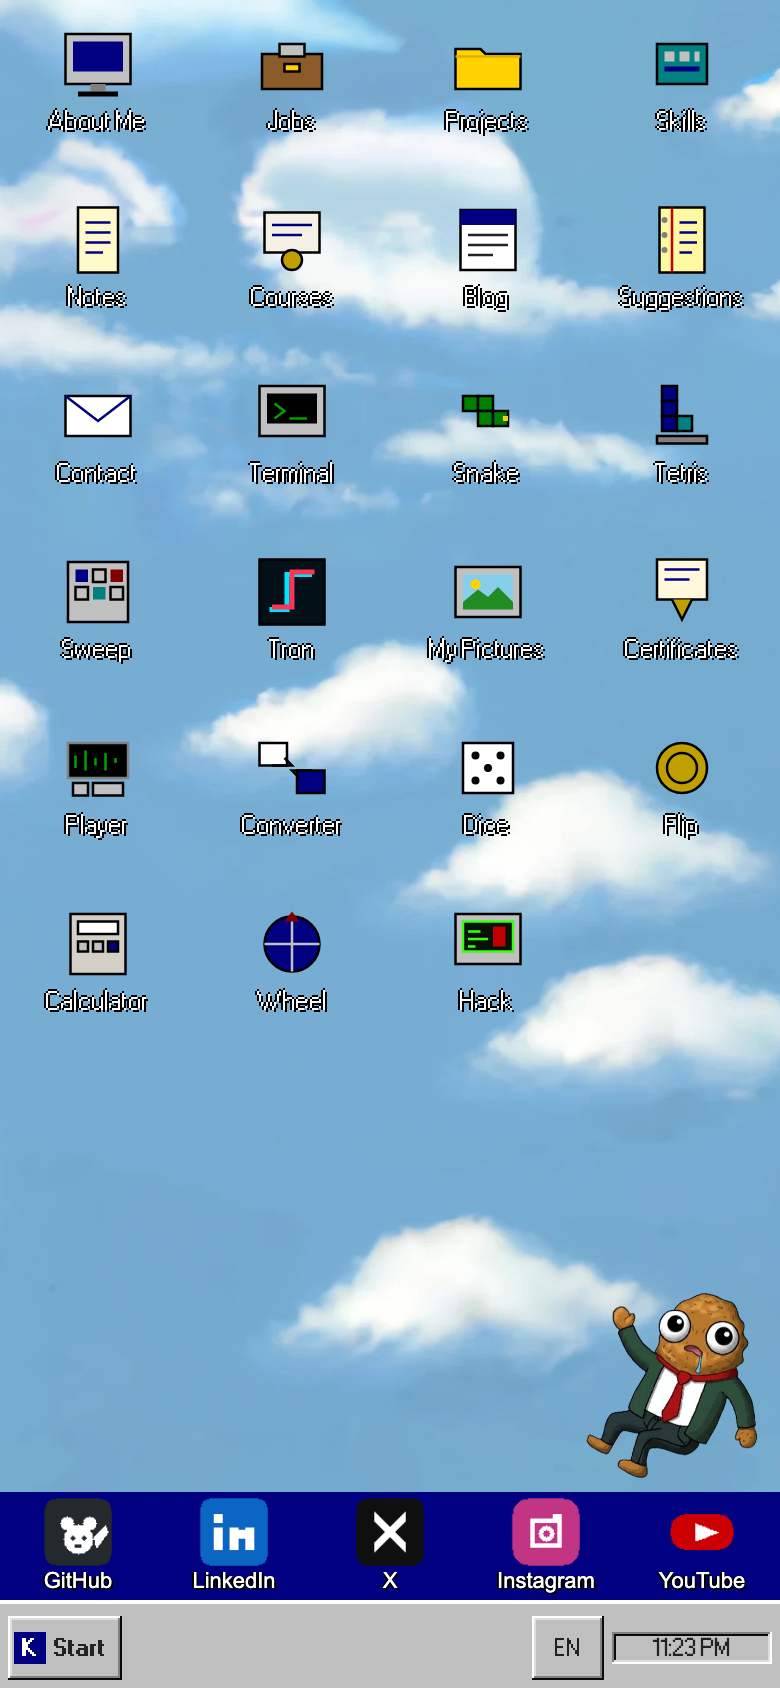
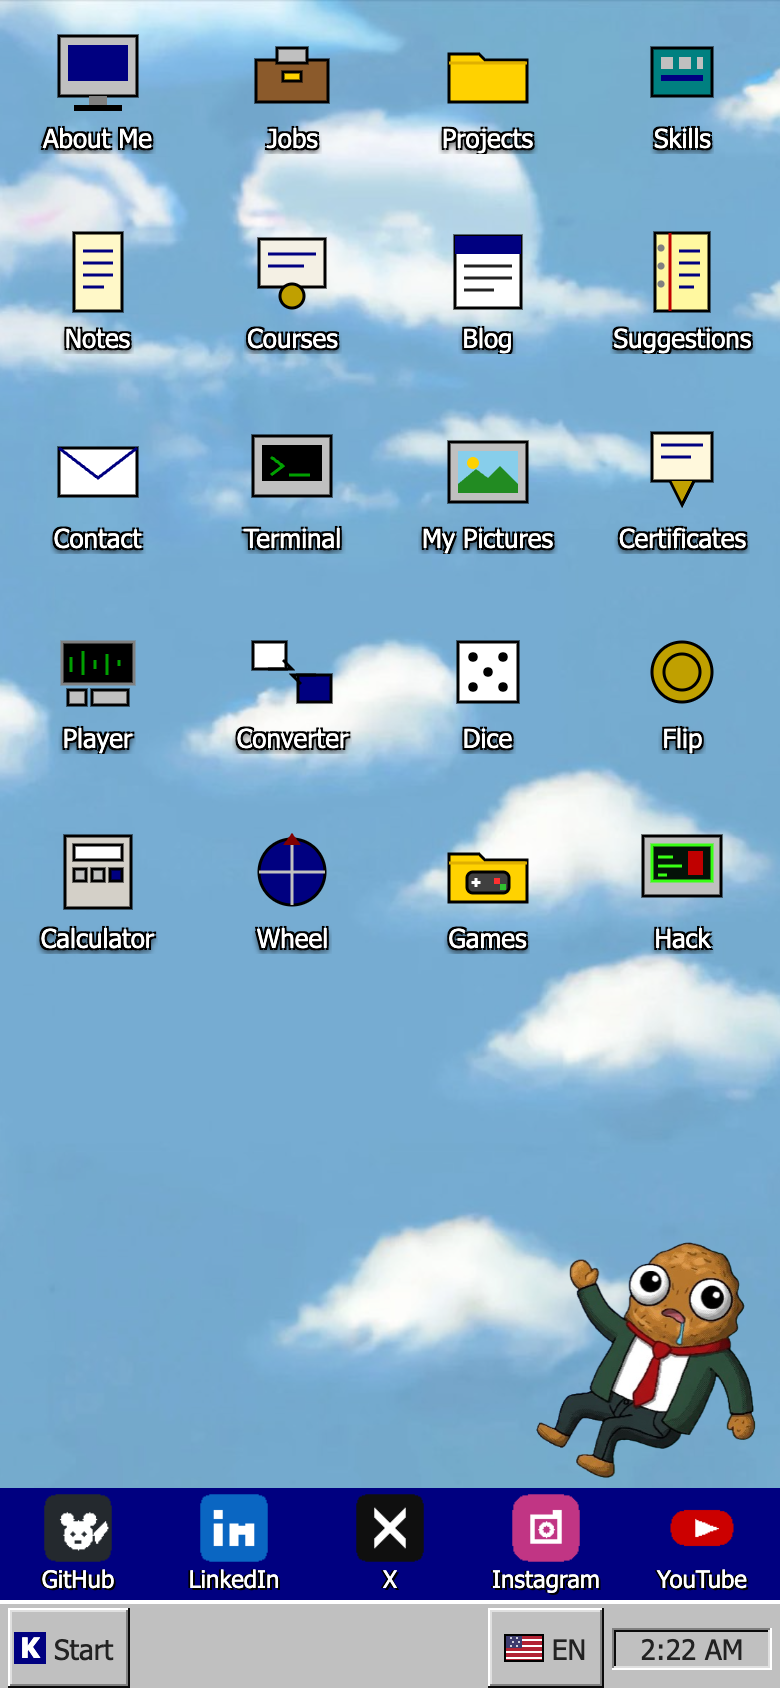
docs: refresh the screenshots and document the stack and how the site is built; fit the games folder and close the nugget balloon on phones
Claude-Session: https://claude.ai/code/session_01SjmkVk8AbaXSFogXksmtBv

diff --git a/site/src/desktop/buddy.ts b/site/src/desktop/buddy.ts
@@ -12,6 +12,8 @@ export interface Clippy {
   labels(): void;
 }
 
+const PHONE_BALLOON_MS = 9000;
+
 let scareNow: ((text?: string) => void) | null = null;
 let speakNow: ((text: string) => void) | null = null;
 let calmNow: (() => void) | null = null;
@@ -114,10 +116,20 @@ export function mountClippy(desktop: HTMLElement): Clippy {
     moveTo(spot.left, spot.top);
   }
 
-  function talk(text: string): void {
+  let fadeTimer = 0;
+
+  // On a phone the balloon would sit over the icons. It closes by itself after a few seconds,
+  // and a tap on the picture brings it back. A scare stays until the visitor closes it.
+  function talk(text: string, keep = false): void {
     lastRaw = text;
     say.textContent = t(text);
     balloon.hidden = false;
+    window.clearTimeout(fadeTimer);
+    if (phoneLayout() && !keep) {
+      fadeTimer = window.setTimeout(() => {
+        balloon.hidden = true;
+      }, PHONE_BALLOON_MS);
+    }
     pic.classList.add("talk");
     window.clearTimeout(talkTimer);
     talkTimer = window.setTimeout(() => pic.classList.remove("talk"), 1400);
@@ -205,7 +217,7 @@ export function mountClippy(desktop: HTMLElement): Clippy {
   function scare(text?: string): void {
     if (root.hidden) return;
     root.classList.add("is-scared");
-    talk(text ?? NUGGET_SCARE);
+    talk(text ?? NUGGET_SCARE, true);
   }
 
   function calm(): void {

diff --git a/site/src/desktop/buddy.test.ts b/site/src/desktop/buddy.test.ts
@@ -1,10 +1,31 @@
 // @vitest-environment happy-dom
-import { afterEach, describe, expect, it } from "vitest";
+import { afterEach, describe, expect, it, vi } from "vitest";
 import { mountClippy } from "./buddy";
 
 afterEach(() => {
   document.body.replaceChildren();
   sessionStorage.clear();
+});
+
+describe("nugget on a phone", () => {
+  it("closes its balloon after a few seconds so it does not sit on the icons, but keeps a scare open", () => {
+    vi.useFakeTimers();
+    const original = window.matchMedia;
+    window.matchMedia = ((query: string) => ({ matches: query.includes("max-width: 700px"), media: query, addEventListener() {}, removeEventListener() {} })) as unknown as typeof window.matchMedia;
+    const desktop = document.createElement("div");
+    desktop.id = "desktop";
+    document.body.append(desktop);
+    const nugget = mountClippy(desktop);
+    const balloon = document.querySelector<HTMLElement>("#clippy .balloon");
+    expect(balloon?.hidden).toBe(false);
+    vi.advanceTimersByTime(9100);
+    expect(balloon?.hidden).toBe(true);
+    nugget.scare("Hey!");
+    vi.advanceTimersByTime(20000);
+    expect(balloon?.hidden).toBe(false);
+    window.matchMedia = original;
+    vi.useRealTimers();
+  });
 });
 
 describe("nugget", () => {

diff --git a/site/src/desktop/desktop.ts b/site/src/desktop/desktop.ts
@@ -167,7 +167,7 @@ const SIZES: Record<string, [number, number]> = {
   "/tetris": [480, 700],
   "/tron": [1000, 780],
   "/legal": [560, 520],
-  "/games": [520, 260],
+  "/games": [520, 190],
   "/accessories": [520, 380],
   "/": [780, 720],
   "/jobs": [720, 640],

diff --git a/README.md b/README.md
@@ -24,19 +24,27 @@ There is one admin, username `goben`, with a password and an authenticator code.
 
 ### Desktop
 
-![Desktop on the Sky wallpaper, with no login icon](docs/screenshots/desktop.png)
+![About Me on the Sky wallpaper, with the nugget welcoming the visitor](docs/screenshots/desktop.png)
 
 ### Phone
 
-![The same desktop on a phone](docs/screenshots/phone.png)
+![The same desktop on a phone: twenty icons, Games and Hack last](docs/screenshots/phone.png)
 
 ### Suggestions
 
-![Suggestions window, with an empty pad](docs/screenshots/suggestions.png)
+![The comment box, with an empty pad](docs/screenshots/suggestions.png)
 
 ### Player
 
-![Webdeck Player in a desktop window](docs/screenshots/player.png)
+![Webdeck Player, Silver theme, in a desktop window](docs/screenshots/player.png)
+
+### Games
+
+![The Games folder](docs/screenshots/games.png)
+
+### Tron
+
+![Tron: the light cycle against two enemies on a 64 by 48 grid](docs/screenshots/tron.png)
 
 ### Sweep
 
@@ -49,6 +57,52 @@ Other shots can go in `docs/screenshots/`. Add the file and one line in this sec
 Portfolio for Goben Diego Constantino Aguirre (PocketNugget). It runs on Cloudflare Workers. The public pages are English, Spanish, German, and French.
 
 The page is a Windows 98 style desktop. Icons and the Start menu open the same pages. The Terminal window still runs the real commands. Snake, Tetris, and Tron are their own windows, with a public best score. Content lives in `site/src/catalog.ts` and `site/content/notes/`.
+
+## Tech stack and how it was built
+
+**Stack**
+
+| Layer | What | Why |
+|---|---|---|
+| Client | TypeScript 7, Vite 8, no UI framework | The whole desktop is DOM built by hand. About 300 kB of JS, 100 kB gzipped, one CSS file |
+| Look | 98.css 0.1.21 plus `styles.css` | Windows 98 window chrome from 98.css. The pixel face (Pixelated MS Sans Serif) is served from this site. Tahoma carries the reading text and the controls |
+| Server | One Cloudflare Worker (`site/src/worker.ts`) | Sets the security headers, serves `security.txt` and `build.json`, answers `/api/*`, and returns `index.html` for document routes |
+| Data | Cloudflare D1 (SQLite) | Blog posts, suggestions, game score names, session hashes, the encrypted TOTP secret, recovery-code hashes, login-failure times |
+| Tests | Vitest 4 with happy-dom | 164 tests in 29 files, covering the API, markup, i18n, the desktop, the games, and the blog |
+| Tooling | Wrangler 4, `scripts/check.sh` | One command typechecks, tests, builds, and greps the output for what the site does not ship |
+
+The only runtime dependency is `98.css`. TypeScript, Vite, Vitest, Wrangler, and happy-dom are build and test tools.
+
+**How it fits together**
+
+1. `site/src/catalog.ts` holds the record: jobs, projects, the hero numbers, the profiles. `render.ts` turns it into the pages, and the same text feeds the terminal commands, the Facts window, the nugget, the printed CV, and the page metadata.
+2. `site/src/desktop/desktop.ts` is the desktop: the app list, icon grid, windows (drag, resize, minimize, maximize), taskbar, Start menu, wallpaper, and the phone layout where a window fills the screen. Each app is a `mount...` function that returns `{ pause, resume, destroy }`.
+3. Every text is a tuple in `i18n.ts` and `i18n-extra.ts`: English, Spanish, German, and French. A test fails when a new line is missing a language, and one more forbids long dashes, `ß`, and a banned percentage.
+4. The Worker serves static files from `dist/` and runs first, so it can add headers. Routes that are pages return the same `index.html`, and the client picks the window from the URL.
+5. The blog, comments, scores, and login are small JSON endpoints in `api.ts`. The editor is behind `/login`, a password plus a TOTP code. See "Login and the blog".
+
+**The games**
+
+- Snake and Tetris are DOM grids driven by pure state functions in `games.ts`, so the tests step them without a browser.
+- Tron (`cycle.ts`, drawn by `cyclepaint.ts`) runs on a 64 by 48 grid with two enemies. One hunts you by aiming ahead of your bike. The other plays for open space. A crashed enemy loses its light trail. Clear five grids to win. The drawing is a canvas: glow lines for trails, a rotated light cycle for each bike, a synth backdrop with scan lines.
+- Sweep grows tighter after each clear and keeps the score.
+- Each game shows the public top scores inside its Play and Exit panel, with a name box when a round ends. Scores are capped per game on the server.
+
+**Blog**
+
+Posts are Markdown, rendered by `markup.ts` into a small whitelist of tags. It supports headings, bold, italic, links, numbered and bullet lists, quotes, rules, fenced code, and images from this site's own paths. `assertSafeHtml` re-checks the result on the server before a post is saved and in the browser before it is shown. The editor has a formatting toolbar and a live preview. The Blog icon wears a red bubble while a post from the last four months exists (`blog.ts`).
+
+**Safari**
+
+The page was tested in real WebKit through Playwright (iPhone 13, iPad Pro 11, and a desktop window) with no page errors. The things Safari needs are in place: `svh` heights with a plain fallback, `-webkit-user-select`, `-webkit-touch-callout` and tap-highlight resets, inputs at 16 px so iOS does not zoom, safe-area insets, and a canvas for Tron instead of three thousand DOM cells. The viewport key `interactive-widget` is ignored by Safari and only logs a console warning. `site/scripts/ui-audit.mjs` opens every window at ten sizes in Chromium, WebKit, and Firefox and fails on windows outside the desk, sideways overflow, clipped title bars, small tap targets, and axe WCAG 2.2 AA violations. Playwright is not a dependency of the site. See that file for the command.
+
+**Performance**
+
+The wallpaper is preloaded, window images load lazily, and the photo and icons are sized for their use. Lighthouse 12 on the home page: mobile performance 86, desktop 99, with accessibility, best practices, and SEO at 100.
+
+**What it does not do**
+
+No framework, no analytics, no third-party script, and no visitor addresses stored. The only cookie is the editor session, and only after login. Nothing here claims a skill the CV does not.
 
 ## Run
 
@@ -84,17 +138,17 @@ To change a page, edit `site/src/catalog.ts`. The desktop apps are the list at t
 
 Each of these is a normal window. Open it from the icon or from Start. The terminal names are in parentheses.
 
-- Player (`player`). Webdeck Player v1.0.2, MIT, by Chris, hosted on this site under `site/public/vendor/webdeck-player/`. Opening the window loads Permaculture, by MTHRBORD, in YouTube's own player. The list also has Magic Ways, by Tatsuro Yamashita, a mix that starts on that video, Floral Shoppe, by Macintosh Plus, and a mix that starts on that track. This site does not host those files. Square-wave tones are gone from this window. The legal page says what is embedded and what is not.
+- Player (`player`). Webdeck Player v1.0.2, MIT, by Chris, hosted on this site under `site/public/vendor/webdeck-player/`. The window opens on Floral Radio in the Silver theme, played in YouTube's own player. The list also has Floral Shoppe, by Macintosh Plus, Magic Ways, by Tatsuro Yamashita, a mix that starts on that video, and Permaculture, by MTHRBORD. This site does not host those files. Square-wave tones are gone from this window. The legal page says what is embedded and what is not.
 - My Pictures (`pictures`) and Certificates (`awards`). Thumbnails, then a larger view with previous and next. The files live in `site/public/media/`. The titles and captions are `site/src/desktop/media.ts`. The public site cannot read a folder on your computer, so copy new photos into `public/media` and add a line to that file. The first set was copied from the local Desktop folder of photos and certificate scans.
 - Converter (`encode`). Base64, hex, and URL encode and decode, text to binary, MD5, SHA-1, and SHA-256, plus KB, MB, and GB using 1024, not 1000. One MB is 1048576 bytes. It runs in the page. Nothing is uploaded.
 - Sweep (`sweep`). It starts as a 9 by 9 grid with 10 mines. A clear opens a tighter grid and keeps the score. Click opens a cell. Right-click, or the Flag button, marks one. The first open cell is never a mine. Again starts over. A name can be saved on the public score list.
 - Dice (`dice`). A die with 4, 6, 8, 10, 12, or 20 sides. Six is the default.
 - Flip (`flip`). Heads or tails, with a short flip.
 - Calculator (`math`). Left to right, the way the Windows 98 calculator did it. It does not use `eval`.
-- Wheel (`wheel`). One name on each line, then a spin. The winner is written under the wheel.
+- Wheel (`wheel`). One name on each line, then a spin. The winner is written under the wheel and taken off the list, so the next spin starts without them.
 - Facts (`facts`). Short lines from the same record as the catalog, plus buttons that open the other tools.
-- Hack (`hack`). The window talks like a loud drop. The button throws an aggressive payload at the colors and labels on this page. Reset or Close puts the desktop back.
-- Nugget (`buddy`). A floating assistant, not a window. Tips come from the same fact list. Close the balloon and the picture stays. Start has Show Nugget and Hide Nugget for this tab. The picture is `site/public/buddy/nugget.png`. Replace that file to change the character.
+- Hack (`hack`). The window talks like a loud drop. A warning for people with photosensitive epilepsy sits above the button. The button throws an aggressive payload at the colors and labels on this page, and the nugget reacts. Reset or Close puts the desktop back.
+- Nugget (`buddy`). A floating guide, not a window. It welcomes the visitor, says something on each page, and Next gives more facts from the same list. On a phone the balloon closes by itself after a few seconds, and a tap on the picture opens it again. Close the balloon and the picture stays. Start has Show Nugget and Hide Nugget for this tab. The picture is `site/public/buddy/nugget.png`. Replace that file to change the character.
 - Run and Find are in the Start menu. Find searches the profile text and opens the matching window.
 - The taskbar EN button cycles English, Spanish, German, and French for this tab. Blog posts stay in the language they were written in.
 - A yellow note shows the current role, place, and email. Closing it lasts for the tab.
@@ -120,7 +174,7 @@ cd site
 
 The config is `site/wrangler.jsonc`. Compatibility date is 2026-05-03, the newest date Wrangler 4.86's local runtime accepts on Node 20. Static assets are the Vite `dist/` directory. The Worker runs first so it can set headers. Document routes return `index.html`. Unknown paths 404.
 
-D1 database `pkn` is `d8bf9b4e-7a24-4f1f-997e-a47c99dd6f79` in `site/wrangler.jsonc`. Apply the schema to the remote database before the editor is used:
+D1 database `pkn` is bound in `site/wrangler.jsonc`. Apply the schema to the remote database before the editor is used:
 
 ```bash
 cd site
@@ -133,7 +187,7 @@ Terraform for the DNS zone is a follow-up against the real zone. It is not in th
 
 ## Login and the blog
 
-`links` is the public list (email, GitHub, LinkedIn, X, Instagram, YouTube). `blog` reads posts. `pad` opens Suggestions. The editor is not a desktop icon, a Start item, or a terminal command. Open `/login` in the address bar. `/admin/login` lands on that same form. A valid session opens `/admin`.
+`links` is the public list (email, GitHub, LinkedIn, X, Instagram, YouTube). `blog` reads posts. `pad` opens Suggestions, the site's comment box, with a Leave a comment! button. The editor is not a desktop icon, a Start item, or a terminal command. Open `/login` in the address bar. `/admin/login` lands on that same form. A valid session opens `/admin`.
 
 There is one admin, username `goben`. No public signup. The password is not in the repo. Login also asks for a 6 digit code from an authenticator app (TOTP, the same code Google Authenticator and Microsoft Authenticator show). It is not a Google or Microsoft login. The first successful password shows a QR once. After that code is accepted, later logins are password plus code. Eight recovery codes work in the code field, once each.
 
